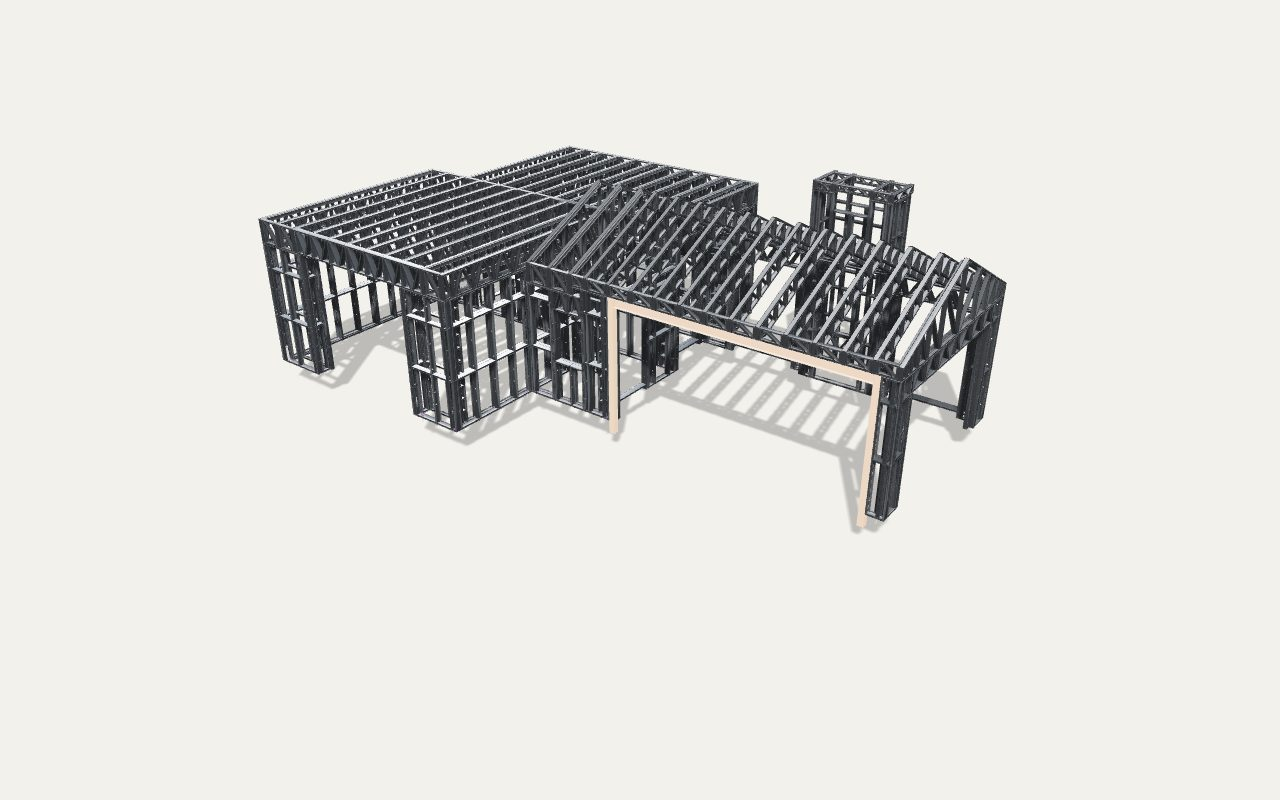
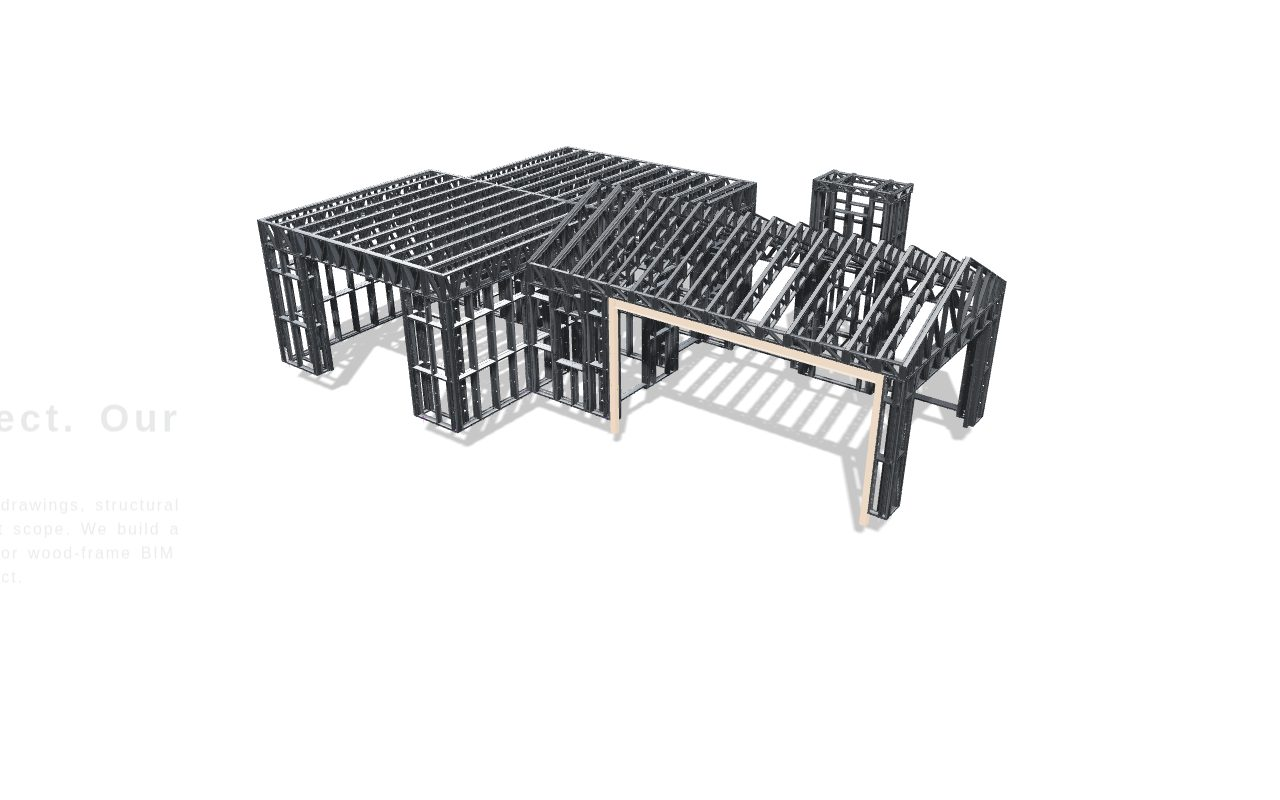
Blogs as a tilted card deck; pure white page background
Blogs
- Post covers form one overlapping row of tilted, frosted cards (after
  the client's reference video). Hover or keyboard focus lifts a card
  clear of the stack; a panel beneath shows that post's date, tags, title
  and summary with "Read the write-up". Each card is a button labelled
  with its post title. Phones keep the existing card grid

Background
- --surface-page and --surface-sunken are now pure white, and so are the
  hardcoded paper tones: hero and project 3D scene backgrounds, the hero
  copy scrim, the globe glow, the Technology diagram panel and the blog
  deck haze
- Hero stage stills re-captured on white (stored unshifted; the poster's
  CSS shift matches the live camera offset)

Claude-Session: https://claude.ai/code/session_017cek8tGGv9x21jDEq8oUay

Changed region(s): [[0.1875, 0.1875, 0.7812, 0.6875], [0.75, 0.5312, 0.7812, 0.5625]]

diff --git a/ui_kits/website/Blogs.jsx b/ui_kits/website/Blogs.jsx
@@ -3,7 +3,8 @@
   Blogs: the site's "Blogs" page. Reads UBC_DATA.blogPosts — real
   client-supplied write-ups (see the comment on that array in data.js for
   exactly what each post's own source document was) — and renders them as
-  a card grid; clicking a card opens that post's own full write-up in
+  a deck of tilted cover cards (BlogDeck; the plain card grid on phones);
+  clicking a card opens that post's own full write-up in
   place, the same "one tab strip, no separate route" pattern the rest of
   this site already uses for services (MockingBirdModel.jsx) and projects
   (Portfolio.jsx). With no posts supplied yet, this shows an honest
@@ -182,6 +183,50 @@ function BlogPost({ post, onBack }) {
   );
 }
 
+// Blog deck: every post's cover as a tilted, frosted card in one
+// overlapping row. Hovering or focusing a card lifts it clear of the stack;
+// the panel beneath shows that post's title, date, tags and summary with
+// its "Read" link. Shown on wider screens (responsive.css); phones keep the
+// card grid below, which the CSS shows in its place.
+function BlogDeck({ posts, onOpen }) {
+  const [active, setActive] = React.useState(null);   // lifted card
+  const [shown, setShown] = React.useState(0);        // post in the panel
+  const pick = (i) => { setActive(i); setShown(i); };
+  const post = posts[shown] || posts[0];
+  const badge = post && (post.date || (post.tags && post.tags[0]));
+
+  return (
+    <div className="ubc-blog-deck">
+      <ul className="ubc-deck" onMouseLeave={() => setActive(null)} style={{ '--n': posts.length }}>
+        {posts.map((p, i) => (
+          <li key={p.id} style={{ '--i': i, zIndex: i + 1 }}>
+            <button type="button" className={'ubc-deck-card' + (active === i ? ' is-up' : '')}
+              aria-label={p.title + (p.date ? ', ' + p.date : '') + '. Read the write-up'}
+              onMouseEnter={() => pick(i)} onFocus={() => pick(i)} onBlur={() => setActive(null)}
+              onClick={() => onOpen(p.id)}>
+              {p.image ? <img src={p.image} alt="" loading="lazy" /> : <span className="ubc-deck-fallback">{p.title}</span>}
+              <span className="ubc-deck-haze" aria-hidden="true" />
+            </button>
+          </li>
+        ))}
+      </ul>
+      {post && (
+        <div className="ubc-deck-panel" aria-live="polite">
+          <div style={{ display: 'flex', alignItems: 'center', gap: 'var(--s-3)', flexWrap: 'wrap' }}>
+            {badge && <span style={{ fontFamily: 'var(--font-mono)', fontSize: 'var(--fs-label)', letterSpacing: 'var(--ls-label)', textTransform: 'uppercase', color: 'var(--text-muted)' }}>{badge}</span>}
+            {post.tags && post.tags.slice(0, 3).map((t) => <Tag key={t}>{t}</Tag>)}
+          </div>
+          <h2 style={{ fontFamily: 'var(--font-serif)', fontWeight: 500, fontSize: 'clamp(22px, 2.4vw, 32px)', lineHeight: 'var(--lh-heading)', color: 'var(--text-strong)', margin: 'var(--s-3) 0 0' }}>{post.title}</h2>
+          {post.excerpt && <p style={{ fontFamily: 'var(--font-body)', fontSize: 'var(--fs-body)', lineHeight: 'var(--lh-relaxed)', color: 'var(--text-muted)', margin: 'var(--space-title-text) 0 0', maxWidth: '72ch' }}>{post.excerpt}</p>}
+          <button type="button" onClick={() => onOpen(post.id)} style={{ marginTop: 'var(--s-5)', display: 'inline-flex', alignItems: 'center', gap: 8, minHeight: 44, padding: '0 var(--s-5)', borderRadius: 'var(--r-pill)', border: 'none', cursor: 'pointer', background: 'var(--accent)', color: 'var(--white)', fontFamily: 'var(--font-body)', fontSize: 'var(--fs-body-sm)', fontWeight: 600 }}>
+            Read the write-up {'\u2192'}
+          </button>
+        </div>
+      )}
+    </div>
+  );
+}
+
 export function Blogs() {
   const posts = (UBC_DATA && UBC_DATA.blogPosts) || [];
   const [openId, setOpenId] = React.useState(null);
@@ -203,6 +248,7 @@ export function Blogs() {
       ) : (
         <Section tight>
           <Page>
+            <BlogDeck posts={posts} onOpen={goTo} />
             <div className="ubc-blog-grid" style={{ display: 'grid', gridTemplateColumns: 'repeat(3, 1fr)', gap: 'var(--s-8) var(--s-7)' }}>
               {posts.map((post, i) => (
                 <Reveal key={post.id} delay={(i % 3) * 70}>

diff --git a/ui_kits/website/responsive.css b/ui_kits/website/responsive.css
@@ -319,7 +319,7 @@
   border: var(--bw-hair) solid var(--line); border-radius: var(--r-4); overflow: hidden;
   box-shadow: 0 24px 48px -28px rgba(0,0,0,.45);
 }
-.ubc-int-visual { position: relative; overflow: hidden; background: var(--paper); padding: clamp(28px, 4vw, 48px) clamp(16px, 3vw, 40px); }
+.ubc-int-visual { position: relative; overflow: hidden; background: var(--white); padding: clamp(28px, 4vw, 48px) clamp(16px, 3vw, 40px); }
 .ubc-int-dots { position: absolute; inset: 0; opacity: .2; background-image: radial-gradient(circle, var(--ink) 1px, transparent 1px); background-size: 32px 32px; }
 .ubc-int-fade { position: absolute; inset: 0; pointer-events: none; background: linear-gradient(to bottom, rgba(255,255,255,.6) 10%, transparent 50%, rgba(255,255,255,.6) 90%); }
 .ubc-int-visual-body { position: relative; z-index: 1; }
@@ -368,7 +368,7 @@
 
 @media (max-width: 760px) {
   .ubc-int-flow { grid-template-columns: minmax(0, 1fr); row-gap: 48px; }
-  .ubc-int-col .ubc-int-head { display: table; margin-left: auto; margin-right: auto; padding: 0 var(--s-2); background: var(--paper); text-align: center; }
+  .ubc-int-col .ubc-int-head { display: table; margin-left: auto; margin-right: auto; padding: 0 var(--s-2); background: var(--white); text-align: center; }
   .ubc-int-col ul { flex-direction: column; align-items: center !important; }
 }
 @media (prefers-reduced-motion: reduce) {
@@ -428,3 +428,42 @@
    model's camera view offset (heroShift in SceneHero.jsx) */
 .ubc-hero-poster { transform: translateX(12%); }
 @media (min-width: 1100px) { .ubc-hero-poster { transform: translateX(20%); } }
+
+/* ---------- Blogs: tilted card deck (BlogDeck in Blogs.jsx) ----------
+   Covers overlap in one row, skewed like a fanned stack of frosted
+   sheets; the hovered/focused card rises and clears. The plain grid is the
+   phone layout, so each view hides the other. */
+.ubc-blog-deck { display: block; }
+.ubc-blog-deck + .ubc-blog-grid { display: none !important; }
+.ubc-deck {
+  --card-w: clamp(220px, 26vw, 320px); --step: calc((100% - var(--card-w)) / (var(--n) - 1));
+  position: relative; list-style: none; margin: 0; padding: 0;
+  height: calc(var(--card-w) * 1.25 + 96px); padding-top: 72px;
+}
+.ubc-deck > li { position: absolute; top: 72px; left: calc(var(--i) * var(--step)); width: var(--card-w); }
+.ubc-deck-card {
+  position: relative; display: block; width: 100%; aspect-ratio: 4 / 5; padding: 0; overflow: hidden; cursor: pointer;
+  border: 1px solid rgba(255,255,255,.7); border-radius: 18px; background: var(--white);
+  transform: skewY(10deg); transform-origin: left top;
+  box-shadow: 0 18px 34px -22px rgba(14,19,24,.45);
+  transition: transform 420ms var(--ease-out), box-shadow 420ms var(--ease-out);
+}
+.ubc-deck-card img { display: block; width: 100%; height: 100%; object-fit: cover; }
+.ubc-deck-fallback { display: flex; align-items: center; justify-content: center; height: 100%; padding: var(--s-5); font-family: var(--font-serif); color: var(--text-strong); }
+.ubc-deck-haze {
+  position: absolute; inset: 0; pointer-events: none;
+  background: linear-gradient(160deg, rgba(255,255,255,.75), rgba(255,255,255,.55));
+  backdrop-filter: blur(2px); -webkit-backdrop-filter: blur(2px);
+  transition: opacity 420ms var(--ease-out);
+}
+.ubc-deck-card.is-up, .ubc-deck-card:focus-visible { transform: skewY(10deg) translateY(-64px); box-shadow: 0 34px 50px -24px rgba(14,19,24,.55); }
+.ubc-deck-card.is-up .ubc-deck-haze, .ubc-deck-card:focus-visible .ubc-deck-haze { opacity: 0; }
+.ubc-deck-card:focus-visible { outline: 3px solid var(--accent); outline-offset: 4px; }
+.ubc-deck-panel { margin-top: var(--s-6); max-width: 860px; }
+@media (max-width: 760px) {
+  .ubc-blog-deck { display: none; }
+  .ubc-blog-deck + .ubc-blog-grid { display: grid !important; }
+}
+@media (prefers-reduced-motion: reduce) {
+  .ubc-deck-card, .ubc-deck-haze { transition: none; }
+}

diff --git a/ui_kits/website/SceneHero.jsx b/ui_kits/website/SceneHero.jsx
@@ -30,7 +30,7 @@ const HERO = UBC_DATA.hero;
 const STAGES = HERO.stages;
 const INTRO = HERO.intro;
 const OUTPUTS = HERO.outputs || [];
-const PAPER = 0xf3f1ec;
+const PAPER = 0xffffff;   // page background (pure white)
 const INTRO_END = 0.16;
 const STAGE_SPAN = (1 - INTRO_END) / STAGES.length;
 const COORD_COLORS = [0x2a5fbe, 0xd6361f, 0xd99a00, 0x1e9e6a, 0x7a5af8];
@@ -317,7 +317,7 @@ export function SceneHero({ onQuote, onGo }) {
         )}
 
         {/* Paper scrim behind the copy, lighter once the stages take over */}
-        <div style={{ position: 'absolute', inset: 0, pointerEvents: 'none', transition: 'opacity 300ms', opacity: stageOn ? 0.55 : 1, background: 'linear-gradient(90deg, rgba(243,241,236,.94) 0%, rgba(243,241,236,.82) 38%, rgba(243,241,236,.2) 70%, rgba(243,241,236,0) 100%)' }} />
+        <div style={{ position: 'absolute', inset: 0, pointerEvents: 'none', transition: 'opacity 300ms', opacity: stageOn ? 0.55 : 1, background: 'linear-gradient(90deg, rgba(255,255,255,.94) 0%, rgba(255,255,255,.82) 38%, rgba(255,255,255,.2) 70%, rgba(255,255,255,0) 100%)' }} />
 
         {/* Hero */}
         <div style={{ position: 'absolute', inset: 0, display: introOp <= 0.01 ? 'none' : 'flex', alignItems: 'center', opacity: introOp, pointerEvents: stageOn ? 'none' : 'auto' }}>

diff --git a/tokens/colors.css b/tokens/colors.css
@@ -11,7 +11,7 @@
 --ubc-navy:#17295C;--ubc-navy-2:#22377A;--ubc-navy-press:#0F1C42;--ubc-navy-tint:#E7EAF3;
 --steel:#3C4A5A;--steel-tint:#E3E7EC;
 --blueprint:#1B4DFF;--ok:#0F8F6B;--warn:#C98A00;--danger:#C42B1C;
---surface-page:var(--paper);--surface-card:var(--white);--surface-sunken:var(--paper);--surface-inverse:var(--ink);
+--surface-page:var(--white);--surface-card:var(--white);--surface-sunken:var(--white);--surface-inverse:var(--ink);
 --text-body:var(--ink-2);--text-strong:var(--ink);--text-muted:var(--ink-3);--text-faint:var(--ink-4);--text-inverse:var(--paper);--text-accent:#B02A16;
 --border-subtle:var(--line);--border-strong:var(--line-strong);--border-accent:var(--ubc-red);
 --accent:var(--ubc-red);--accent-press:var(--ubc-red-press);--accent-tint:var(--ubc-red-tint);

diff --git a/ui_kits/website/ModelViewer.jsx b/ui_kits/website/ModelViewer.jsx
@@ -244,7 +244,7 @@ export function ModelViewer({ src, radius, title, height, compact, bare, initial
       if (!host) return;
 
       const scene = new THREE.Scene();
-      scene.background = new THREE.Color(0xf3f1ec);   // --paper: a paper studio sweep, not the model stage's old dark stage
+      scene.background = new THREE.Color(0xffffff);   // the page's pure-white background, not the model stage's old dark stage
 
       const R = radius || 12;
       // The offset direction the camera opens on and returns to on reset.

diff --git a/ui_kits/website/Home.jsx b/ui_kits/website/Home.jsx
@@ -404,7 +404,7 @@ function GlobalPresence() {
 
         // tokens/colors.css, normalised to 0-1: --white, --paper, --ubc-red.
         const WHITE = [1, 1, 1];
-        const PAPER = [0.953, 0.945, 0.925];
+        const PAPER = [1, 1, 1];   // page background (pure white)
         const RED = [0.839, 0.212, 0.122];
         // Radians per frame at a nominal 60fps: one full turn roughly every
         // 4 minutes — slow enough to read as "idle", not spinning.
